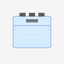
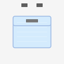
Fix feet positioning: move to bottom and reduce to 2 feet

diff --git a/create_icon.swift b/create_icon.swift
@@ -102,14 +102,14 @@ func createIcon(isEnabled: Bool = true) {
     context.setLineWidth(8)
     context.stroke(handleRect)
     
-    // Draw feet
+    // Draw feet at the bottom
     let footWidth = freezerWidth * 0.15
     let footHeight = CGFloat(Double(size) * 0.05)
-    let footSpacing = freezerWidth * 0.25
+    let footSpacing = freezerWidth * 0.4
     
-    for i in 0..<3 {
-        let footX = centerX - footSpacing + CGFloat(i) * footSpacing
-        let footY = centerY + freezerHeight/2 + footHeight/2
+    for i in 0..<2 {
+        let footX = centerX - footSpacing/2 + CGFloat(i) * footSpacing
+        let footY = centerY + freezerHeight/2 + lidHeight + footHeight/2
         
         let footRect = CGRect(
             x: footX - footWidth/2,
